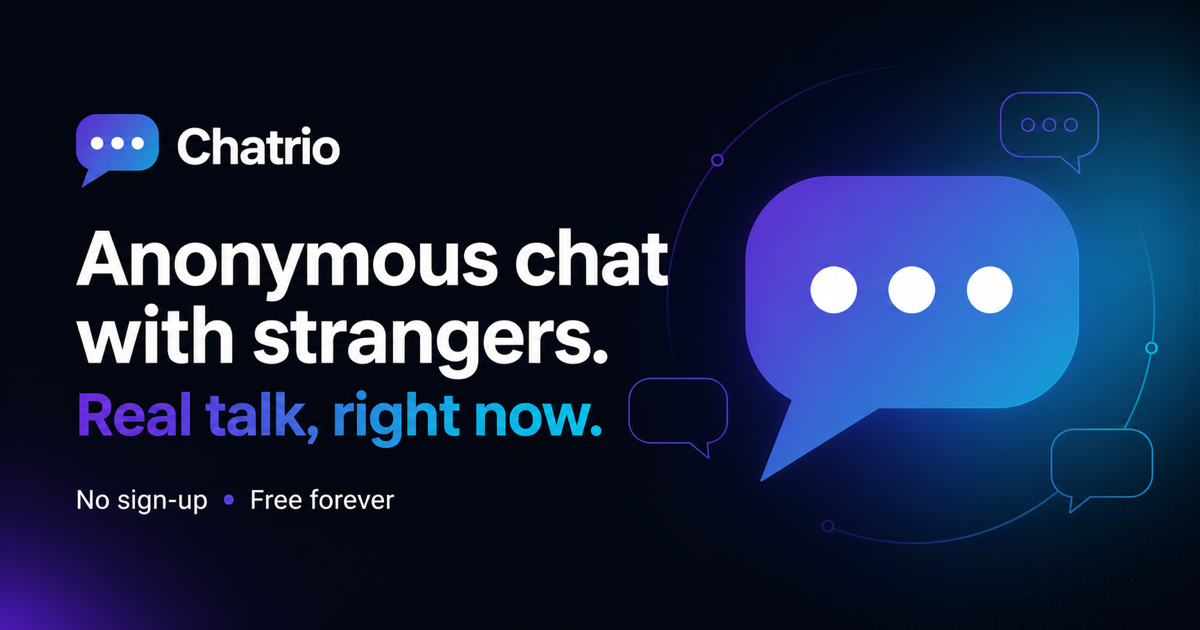
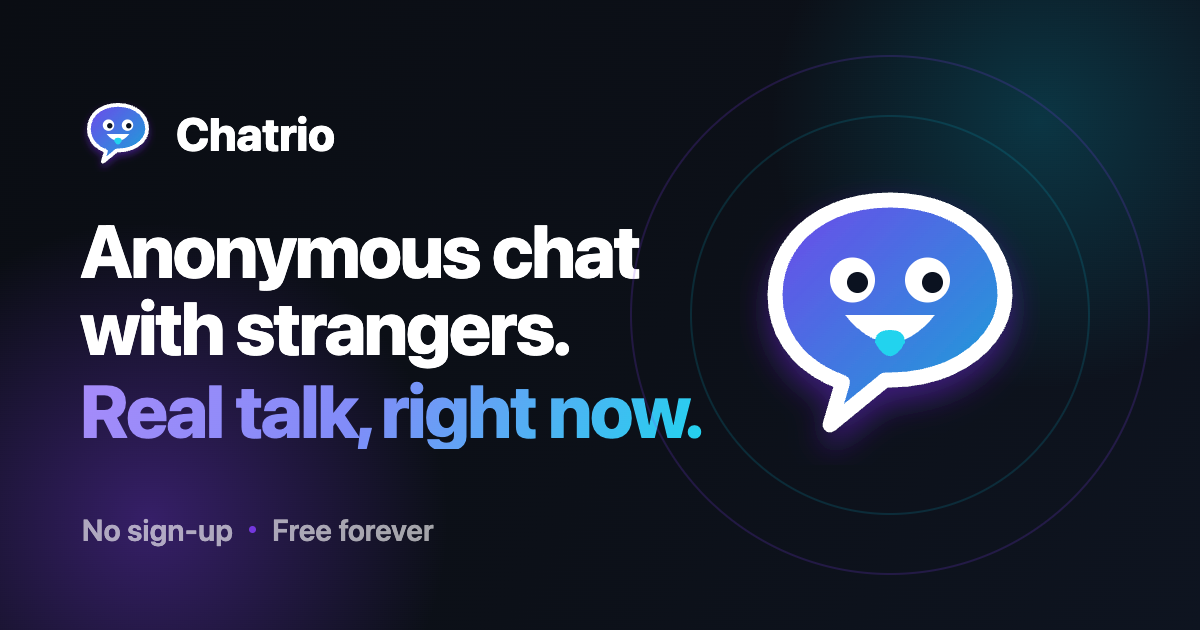
Regenerate social share card with the ChatrioMascot mark
Rebuilds the 1200x630 og:image with the mascot as the hero graphic
(replacing the old speech-bubble), same layout/copy. Rendered via puppeteer
for pixel-perfect text; same filename so all og:image refs update. Adds
scripts/generate-social-card.js.

diff --git a/scripts/generate-social-card.js b/scripts/generate-social-card.js
@@ -1,0 +1,89 @@
+/* Regenerate the 1200×630 social share card with the ChatrioMascot mark.
+ * Rebuilds the existing card layout (dark bg + glow, logo+wordmark, headline,
+ * "No sign-up · Free forever") but swaps the old speech-bubble graphic for the
+ * mascot. Rendered via puppeteer (headless Chrome) for pixel-perfect text,
+ * matching the repo's other banner generators.
+ * Run: node scripts/generate-social-card.js
+ */
+const puppeteer = require("../client/node_modules/puppeteer");
+const path = require("path");
+
+const OUT = path.resolve(__dirname, "../client/public/branding/chatrio-social-card-2026.png");
+
+// Mascot markup in its native 0..120 space (kept in sync with
+// client/src/components/ChatrioMascot.tsx). `uid` keeps ids unique per instance.
+function mascot(uid) {
+  return `<svg viewBox="0 0 120 120" width="100%" height="100%" xmlns="http://www.w3.org/2000/svg">
+    <defs>
+      <linearGradient id="${uid}-g" x1="0" y1="0" x2="120" y2="120" gradientUnits="userSpaceOnUse">
+        <stop offset="0%" stop-color="#7c3aed"/><stop offset="100%" stop-color="#06b6d4"/>
+      </linearGradient>
+      <filter id="${uid}-sh" x="-30%" y="-30%" width="160%" height="160%">
+        <feDropShadow dx="0" dy="6" stdDeviation="6" flood-color="#6d28d9" flood-opacity="0.5"/>
+      </filter>
+    </defs>
+    <g filter="url(#${uid}-sh)">
+      <path d="M60 14 C33 14 14 30 14 52 C14 68 24 81 41 87 L36 104 L58 86 C59 86 60 86 60 86 C87 86 106 70 106 52 C106 30 87 14 60 14 Z"
+            fill="url(#${uid}-g)" stroke="#fff" stroke-width="6" stroke-linejoin="round"/>
+    </g>
+    <circle cx="45" cy="46" r="9" fill="#fff"/><circle cx="75" cy="46" r="9" fill="#fff"/>
+    <circle cx="47" cy="47" r="4.2" fill="#0b1220"/><circle cx="77" cy="47" r="4.2" fill="#0b1220"/>
+    <path d="M42 60 Q60 82 78 60 Z" fill="#fff"/>
+    <path d="M54 71 Q60 82 66 71 Q66 66 60 66 Q54 66 54 71 Z" fill="#22d3ee"/>
+  </svg>`;
+}
+
+const html = `<!DOCTYPE html><html><head><meta charset="UTF-8"><style>
+*{margin:0;padding:0;box-sizing:border-box}
+html,body{width:1200px;height:630px}
+.card{
+  position:relative;width:1200px;height:630px;overflow:hidden;
+  background:linear-gradient(120deg,#0a0d13 0%,#0c1018 55%,#0e1420 100%);
+  font-family:-apple-system,BlinkMacSystemFont,'Segoe UI',Roboto,sans-serif;
+}
+.glow-a{position:absolute;left:-160px;bottom:-200px;width:620px;height:620px;border-radius:50%;
+  background:radial-gradient(circle,rgba(124,58,237,.38),rgba(124,58,237,0) 68%)}
+.glow-b{position:absolute;right:-120px;top:-160px;width:560px;height:560px;border-radius:50%;
+  background:radial-gradient(circle,rgba(6,182,212,.22),rgba(6,182,212,0) 68%)}
+.brand{position:absolute;left:80px;top:96px;display:flex;align-items:center;gap:20px}
+.brand .mark{width:76px;height:76px}
+.brand .word{font-size:46px;font-weight:800;color:#fff;letter-spacing:-.5px}
+.headline{position:absolute;left:80px;top:212px;max-width:660px}
+.headline .l1{font-size:74px;font-weight:800;color:#fff;line-height:1.04;letter-spacing:-2px}
+.headline .l2{font-size:74px;font-weight:800;line-height:1.04;letter-spacing:-2px;margin-top:6px;
+  background:linear-gradient(120deg,#a78bfa 0%,#818cf8 45%,#22d3ee 100%);
+  -webkit-background-clip:text;background-clip:text;color:transparent;display:inline-block}
+.sub{position:absolute;left:82px;top:512px;font-size:30px;font-weight:600;color:rgba(255,255,255,.62);
+  display:flex;align-items:center;gap:16px}
+.sub .dot{width:7px;height:7px;border-radius:50%;background:rgba(124,58,237,.9);display:inline-block}
+.hero{position:absolute;right:110px;top:50%;transform:translateY(-50%);width:400px;height:400px;
+  display:flex;align-items:center;justify-content:center}
+.hero .ring{position:absolute;border:2px solid rgba(124,58,237,.20);border-radius:50%}
+.hero .r1{width:520px;height:520px}
+.hero .r2{width:400px;height:400px;border-color:rgba(6,182,212,.16)}
+.hero .mm{width:300px;height:300px;position:relative;z-index:2}
+</style></head><body>
+<div class="card">
+  <div class="glow-a"></div><div class="glow-b"></div>
+  <div class="brand"><span class="mark">${mascot("m1")}</span><span class="word">Chatrio</span></div>
+  <div class="headline">
+    <div class="l1">Anonymous chat with strangers.</div>
+    <div class="l2">Real talk, right now.</div>
+  </div>
+  <div class="sub"><span>No sign-up</span><span class="dot"></span><span>Free forever</span></div>
+  <div class="hero">
+    <div class="ring r1"></div><div class="ring r2"></div>
+    <div class="mm">${mascot("m2")}</div>
+  </div>
+</div>
+</body></html>`;
+
+(async () => {
+  const browser = await puppeteer.launch({ headless: "new", args: ["--no-sandbox"] });
+  const page = await browser.newPage();
+  await page.setViewport({ width: 1200, height: 630, deviceScaleFactor: 1 });
+  await page.setContent(html, { waitUntil: "networkidle0" });
+  await page.screenshot({ path: OUT, clip: { x: 0, y: 0, width: 1200, height: 630 } });
+  await browser.close();
+  console.log("✅ Wrote", path.relative(process.cwd(), OUT));
+})().catch((e) => { console.error(e); process.exit(1); });
